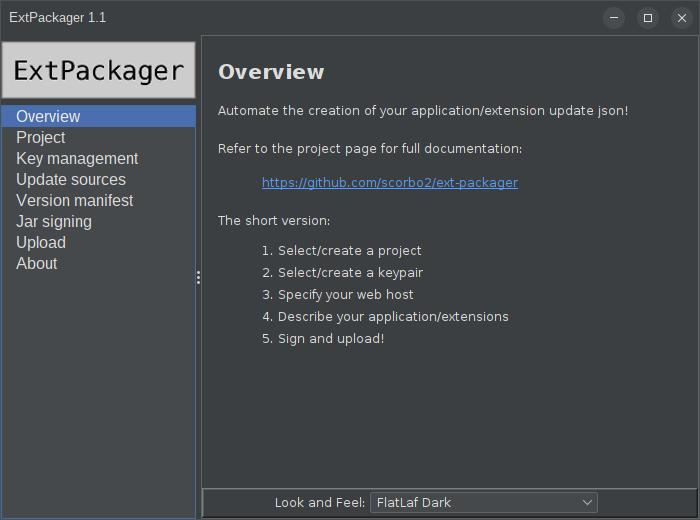
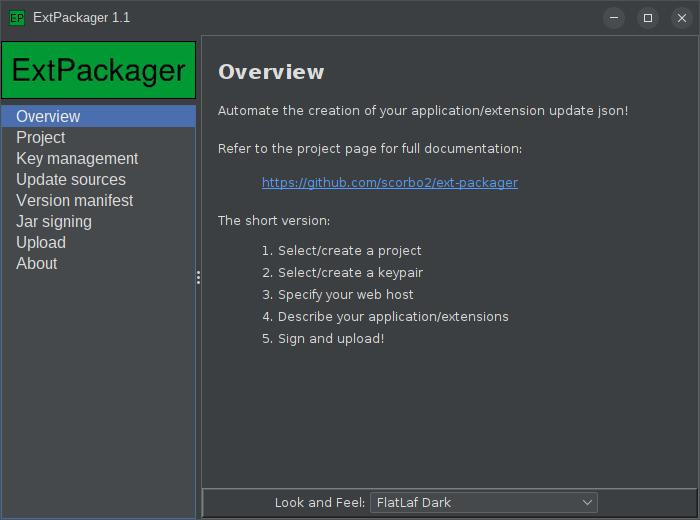
Issue #28 - add make-installer support

Changed region(s): [[0.0, 0.0, 0.3, 0.2154]]

diff --git a/src/main/java/ca/corbett/packager/ui/MainWindow.java b/src/main/java/ca/corbett/packager/ui/MainWindow.java
@@ -56,6 +56,7 @@ public class MainWindow extends JFrame {
         setSize(new Dimension(700, 520));
         setMinimumSize(new Dimension(500, 400));
         setLayout(new BorderLayout());
+        setIconImage(loadIconResource("/ca/corbett/extpackager/images/logo.png", 64, 64));
         JSplitPane splitPane = new JSplitPane(JSplitPane.HORIZONTAL_SPLIT, buildMenuPanel(), buildContentPanel());
         splitPane.setOneTouchExpandable(false);
         splitPane.setDividerLocation(195);
@@ -198,6 +199,35 @@ public class MainWindow extends JFrame {
             clipboard.setContents(new StringSelection(link), null);
             getMessageUtil().info("Hyperlinks are not enabled in your JRE.\nLink copied to clipboard instead.");
         }
+    }
+
+    /**
+     * Loads and returns an image icon resource, scaling up or down to the given size if needed.
+     *
+     * @param resourceName The path to the resource file containing the image.
+     * @param width        The desired width of the image.
+     * @param height       The desired height of the image.
+     * @return An image, loaded and scaled, or null if the resource was not found.
+     */
+    public static BufferedImage loadIconResource(String resourceName, int width, int height) {
+        BufferedImage image = null;
+        try {
+            URL url = MainWindow.class.getResource(resourceName);
+            if (url == null) {
+                throw new IOException("Image resource not found: " + resourceName);
+            }
+            image = ImageUtil.loadImage(url);
+
+            // If the width or height don't match, scale it up or down as needed:
+            if (image.getWidth() != width || image.getHeight() != height) {
+                image = ImageUtil.generateThumbnailWithTransparency(image, width, height);
+            }
+        }
+        catch (IOException ioe) {
+            log.log(Level.SEVERE, "Error loading image: " + ioe.getMessage(), ioe);
+        }
+
+        return image;
     }
 
     public static boolean isUrl(String url) {
